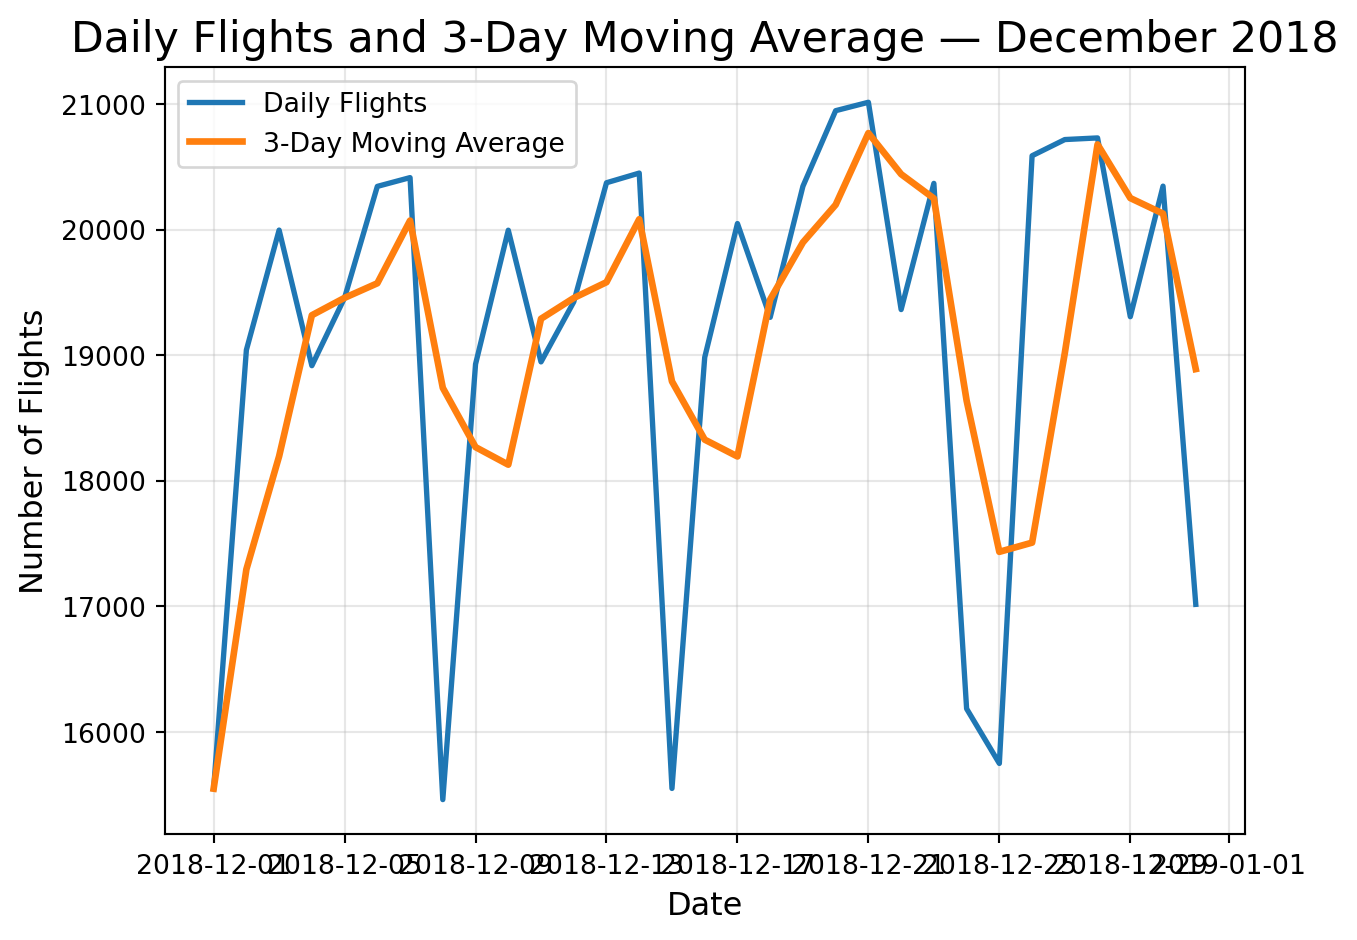
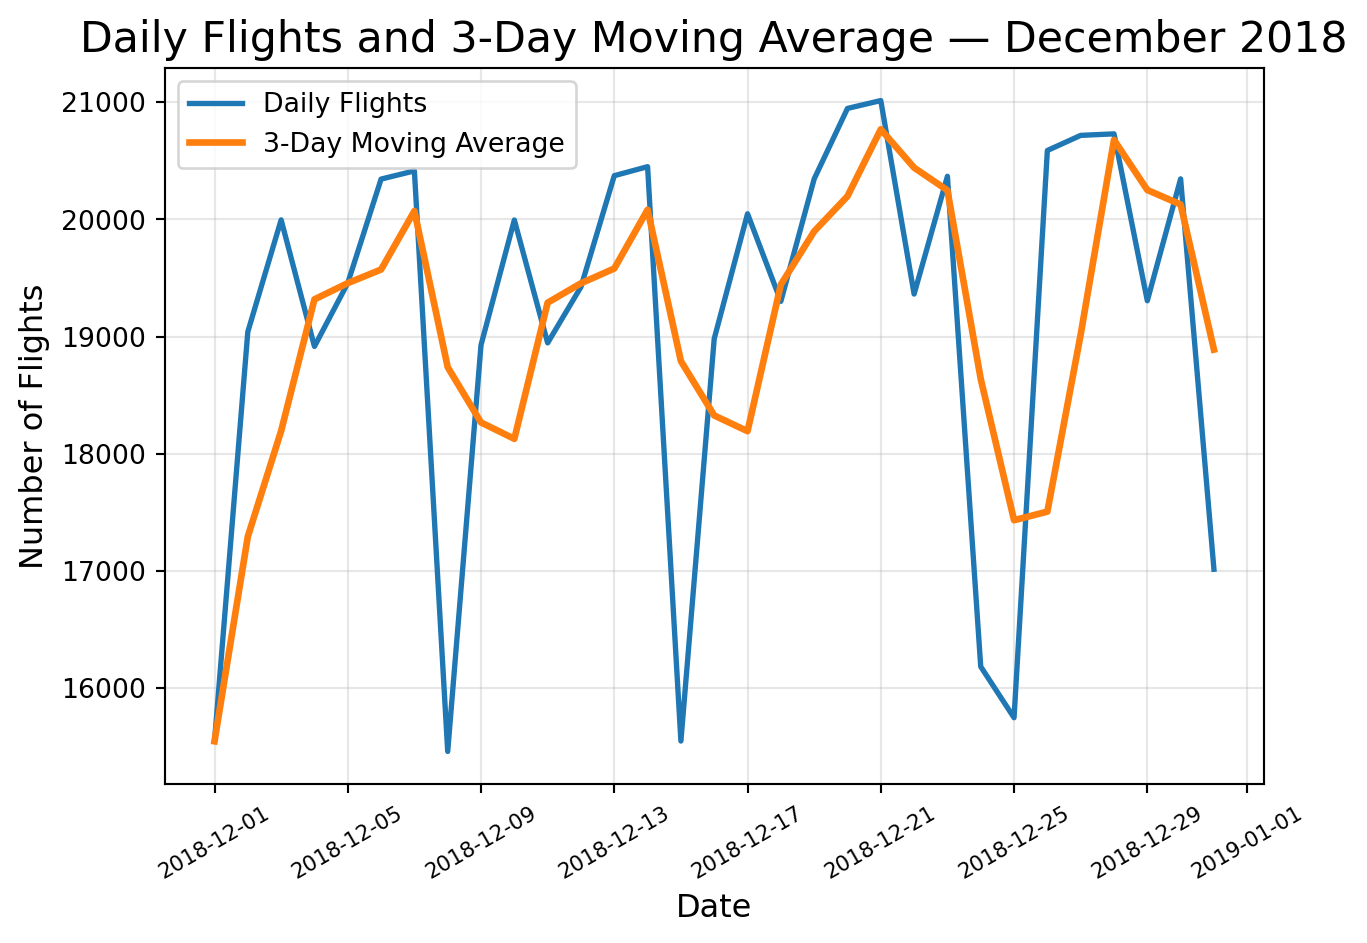
update quarto web page

diff --git a/docs/index.html b/docs/index.html
@@ -231,7 +231,6 @@ pre > code.sourceCode > span > a:first-child::before { text-decoration: underlin
 <li>Cancellation indicators and reasons</li>
 </ul>
 <p>Using SQL—including joins and window functions—alongside Python visualizations, this report examines patterns in flight volume, delays, and cancellations. The goal of this Quarto page is to <strong>tell a clear, cohesive story</strong> about traveler behavior and operational performance during one of the busiest travel periods of the year.</p>
-<hr>
 </section>
 <section id="when-are-the-skies-busiest" class="level1">
 <h1>1. When Are the Skies Busiest?</h1>
@@ -252,7 +251,7 @@ A simple grouping query joined to the weekday lookup table reveals that:</p>
 </blockquote>
 <section id="visualization" class="level3">
 <h3 class="anchored" data-anchor-id="visualization">Visualization</h3>
-<div id="c5db799d" class="cell" data-execution_count="1">
+<div id="09fde6eb" class="cell" data-execution_count="1">
 <details class="code-fold">
 <summary>Code</summary>
 <div class="sourceCode cell-code" id="cb1"><pre class="sourceCode python code-with-copy"><code class="sourceCode python"><span id="cb1-1"><a href="#cb1-1" aria-hidden="true" tabindex="-1"></a><span class="im">import</span> pandas <span class="im">as</span> pd</span>
@@ -277,13 +276,12 @@ A simple grouping query joined to the weekday lookup table reveals that:</p>
 </div>
 </div>
 </div>
-<hr>
 </section>
 </section>
 <section id="daily-traffic-trend-with-a-3-day-moving-average" class="level2">
 <h2 class="anchored" data-anchor-id="daily-traffic-trend-with-a-3-day-moving-average">1.2 Daily Traffic Trend with a 3-Day Moving Average</h2>
 <p>To understand short-term fluctuations, I computed a <strong>3-day moving average</strong> on the number of flights per day using a SQL window function.</p>
-<div id="2584c30a" class="cell" data-execution_count="2">
+<div id="7927c589" class="cell" data-execution_count="2">
 <details class="code-fold">
 <summary>Code</summary>
 <div class="sourceCode cell-code" id="cb2"><pre class="sourceCode python code-with-copy"><code class="sourceCode python"><span id="cb2-1"><a href="#cb2-1" aria-hidden="true" tabindex="-1"></a><span class="im">import</span> pandas <span class="im">as</span> pd</span>
@@ -291,7 +289,7 @@ A simple grouping query joined to the weekday lookup table reveals that:</p>
 <span id="cb2-3"><a href="#cb2-3" aria-hidden="true" tabindex="-1"></a>df2 <span class="op">=</span> pd.read_csv(<span class="st">"data/miniproject_task7_Yuxi_Shen_ys1079.csv"</span>)</span>
 <span id="cb2-4"><a href="#cb2-4" aria-hidden="true" tabindex="-1"></a>df2</span></code><button title="Copy to Clipboard" class="code-copy-button"><i class="bi"></i></button></pre></div>
 </details>
-<div class="cell-output cell-output-display" data-execution_count="2">
+<div class="cell-output cell-output-display" data-execution_count="12">
 <div>
 
 
@@ -516,7 +514,7 @@ A simple grouping query joined to the weekday lookup table reveals that:</p>
 <li>weekly fluctuation of number of flights</li>
 </ul></li>
 </ul>
-<div id="f1aa536b" class="cell" data-execution_count="3">
+<div id="838455d7" class="cell" data-execution_count="3">
 <details class="code-fold">
 <summary>Code</summary>
 <div class="sourceCode cell-code" id="cb3"><pre class="sourceCode python code-with-copy"><code class="sourceCode python"><span id="cb3-1"><a href="#cb3-1" aria-hidden="true" tabindex="-1"></a><span class="im">import</span> pandas <span class="im">as</span> pd</span>
@@ -537,20 +535,20 @@ A simple grouping query joined to the weekday lookup table reveals that:</p>
 <span id="cb3-16"><a href="#cb3-16" aria-hidden="true" tabindex="-1"></a>plt.title(<span class="st">"Daily Flights and 3-Day Moving Average — December 2018"</span>, fontsize<span class="op">=</span><span class="dv">16</span>)</span>
 <span id="cb3-17"><a href="#cb3-17" aria-hidden="true" tabindex="-1"></a>plt.xlabel(<span class="st">"Date"</span>, fontsize<span class="op">=</span><span class="dv">12</span>)</span>
 <span id="cb3-18"><a href="#cb3-18" aria-hidden="true" tabindex="-1"></a>plt.ylabel(<span class="st">"Number of Flights"</span>, fontsize<span class="op">=</span><span class="dv">12</span>)</span>
-<span id="cb3-19"><a href="#cb3-19" aria-hidden="true" tabindex="-1"></a>plt.grid(alpha<span class="op">=</span><span class="fl">0.3</span>)</span>
-<span id="cb3-20"><a href="#cb3-20" aria-hidden="true" tabindex="-1"></a>plt.legend()</span>
-<span id="cb3-21"><a href="#cb3-21" aria-hidden="true" tabindex="-1"></a>plt.tight_layout()</span>
-<span id="cb3-22"><a href="#cb3-22" aria-hidden="true" tabindex="-1"></a>plt.show()</span></code><button title="Copy to Clipboard" class="code-copy-button"><i class="bi"></i></button></pre></div>
+<span id="cb3-19"><a href="#cb3-19" aria-hidden="true" tabindex="-1"></a>plt.xticks(rotation<span class="op">=</span><span class="dv">30</span>, size<span class="op">=</span><span class="dv">8</span>)</span>
+<span id="cb3-20"><a href="#cb3-20" aria-hidden="true" tabindex="-1"></a>plt.grid(alpha<span class="op">=</span><span class="fl">0.3</span>)</span>
+<span id="cb3-21"><a href="#cb3-21" aria-hidden="true" tabindex="-1"></a>plt.legend()</span>
+<span id="cb3-22"><a href="#cb3-22" aria-hidden="true" tabindex="-1"></a>plt.tight_layout()</span>
+<span id="cb3-23"><a href="#cb3-23" aria-hidden="true" tabindex="-1"></a>plt.show()</span></code><button title="Copy to Clipboard" class="code-copy-button"><i class="bi"></i></button></pre></div>
 </details>
 <div class="cell-output cell-output-display">
 <div>
 <figure class="figure">
-<p><img src="index_files/figure-html/cell-4-output-1.png" width="679" height="470" class="figure-img"></p>
+<p><img src="index_files/figure-html/cell-4-output-1.png" width="684" height="472" class="figure-img"></p>
 </figure>
 </div>
 </div>
 </div>
-<hr>
 </section>
 </section>
 </section>
@@ -561,15 +559,12 @@ A simple grouping query joined to the weekday lookup table reveals that:</p>
 <p>I computed the <strong>maximal departure delay</strong> (in minutes) for each airline.</p>
 <ul>
 <li>The worst delay observed was for <strong>SkyWest Airlines Inc.</strong>, with a flight departing <strong>2098</strong> late.</li>
-<li>The smallest maximum delay belonged to <strong>Alaska Airlines Inc.</strong>.</li>
+<li>The smallest maximum delay belonged to <strong>Alaska Airlines Inc.</strong></li>
 </ul>
 <p>Extreme delays may be driven by severe weather or operational disruptions, but they highlight worst-case passenger experiences.</p>
 <section id="visualization-2" class="level3">
 <h3 class="anchored" data-anchor-id="visualization-2">Visualization</h3>
-<ul>
-<li>Bar chart of <strong>maximum delays per airline</strong>, ordered ascending.</li>
-</ul>
-<div id="74932f8d" class="cell" data-execution_count="4">
+<div id="0cbc13f2" class="cell" data-execution_count="4">
 <details class="code-fold">
 <summary>Code</summary>
 <div class="sourceCode cell-code" id="cb4"><pre class="sourceCode python code-with-copy"><code class="sourceCode python"><span id="cb4-1"><a href="#cb4-1" aria-hidden="true" tabindex="-1"></a><span class="im">import</span> pandas <span class="im">as</span> pd</span>
@@ -596,7 +591,7 @@ A simple grouping query joined to the weekday lookup table reveals that:</p>
 </div>
 </div>
 </div>
-<hr>
+<p><em>Notes. Bar chart of <strong>maximum delays per airline</strong>, ordered ascending.</em></p>
 </section>
 </section>
 <section id="early-departures-negative-delays" class="level2">
@@ -604,9 +599,9 @@ A simple grouping query joined to the weekday lookup table reveals that:</p>
 <p>Some airlines operate flights that leave earlier than scheduled.<br>
 By examining negative <code>DepDelay</code> values:</p>
 <ul>
-<li>The biggest early departure was <strong>72 minutes early</strong> by <strong>United AirLines Inc.</strong>.</li>
+<li>The biggest early departure was <strong>72 minutes early</strong> by <strong>United AirLines Inc.</strong></li>
 </ul>
-<div id="32bca308" class="cell" data-execution_count="5">
+<div id="a74d556f" class="cell" data-execution_count="5">
 <details class="code-fold">
 <summary>Code</summary>
 <div class="sourceCode cell-code" id="cb5"><pre class="sourceCode python code-with-copy"><code class="sourceCode python"><span id="cb5-1"><a href="#cb5-1" aria-hidden="true" tabindex="-1"></a><span class="im">import</span> pandas <span class="im">as</span> pd</span>
@@ -633,27 +628,25 @@ By examining negative <code>DepDelay</code> values:</p>
 </div>
 </div>
 </div>
-<hr>
 </section>
 <section id="which-airports-experience-the-worst-delays" class="level2">
 <h2 class="anchored" data-anchor-id="which-airports-experience-the-worst-delays">2.3 Which Airports Experience the Worst Delays?</h2>
 <p>Using <code>DepDelayMinutes</code>—which assigns early departures a delay of zero—I calculated the <strong>average departure delay for each origin airport</strong>. This measure highlights airports where operational congestion, scheduling inefficiency, or weather-related factors contribute to slower throughput.</p>
 <ul>
-<li>The airport with the <strong>highest average delay</strong> was <strong>Liberal, KS: Liberal Mid-America Regional</strong>, with an average delay of <strong>63.82 minutes</strong>.</li>
+<li>The airport with the <strong>highest average delay</strong> was <strong>in Liberal, KS: Liberal Mid-America Regional Airport</strong>, with an average delay of <strong>63.82 minutes</strong>.</li>
 </ul>
 <p>This result suggests that even smaller regional airports can become significant delay points, depending on local conditions and airline routing patterns.</p>
-<hr>
 </section>
 <section id="for-each-airline-which-airport-is-its-biggest-delay-problem" class="level2">
 <h2 class="anchored" data-anchor-id="for-each-airline-which-airport-is-its-biggest-delay-problem">2.4 For Each Airline, Which Airport Is Its Biggest Delay Problem?</h2>
 <p>To better understand how operational performance varies by airline and location, I used a window function to identify, for <strong>each airline</strong>, the <strong>airport where it experiences its highest average departure delay</strong>.</p>
 <p>A few illustrative examples include:</p>
 <ul>
-<li><strong>Delta Air Lines Inc.&nbsp;(DL)</strong> faces its longest delays at <strong>Kalispell, MT: Glacier Park International</strong>, averaging <strong>60.12 minutes</strong>.<br>
+<li><strong>Delta Air Lines Inc.&nbsp;(DL)</strong> faces its longest delays at <strong>Kalispell, MT: Glacier Park International Airport</strong>, averaging <strong>60.12 minutes</strong>.<br>
 </li>
-<li><strong>ExpressJet Airlines LLC (EV)</strong> experiences its worst delays at <strong>Detroit, MI: Detroit Metro Wayne County</strong>, with an exceptionally high average delay of <strong>167 minutes</strong>.<br>
+<li><strong>ExpressJet Airlines LLC (EV)</strong> experiences its worst delays at <strong>Detroit, MI: Detroit Metro Wayne County Airport</strong>, with an exceptionally high average delay of <strong>167 minutes</strong>.<br>
 </li>
-<li><strong>JetBlue Airways (B6)</strong> and <strong>Frontier Airlines (F9)</strong> both encounter their highest delays at <strong>Dallas/Fort Worth, TX: Dallas/Fort Worth International</strong>, averaging approximately <strong>50 minutes</strong>.</li>
+<li><strong>JetBlue Airways (B6)</strong> and <strong>Frontier Airlines (F9)</strong> both encounter their highest delays at <strong>TX: Dallas/Fort Worth International Airport</strong>, averaging approximately <strong>50 minutes</strong>.</li>
 </ul>
 <p>These patterns reveal that <strong>delay hotspots are airline-specific</strong>. An airport that is highly problematic for one carrier may operate efficiently for another, underscoring the complex interactions between airline scheduling, airport capacity, and regional conditions.</p>
 <blockquote class="blockquote">
@@ -661,17 +654,7 @@ By examining negative <code>DepDelay</code> values:</p>
 </blockquote>
 <section id="visualization-3" class="level3">
 <h3 class="anchored" data-anchor-id="visualization-3">Visualization</h3>
-<ul>
-<li>Grouped bar chart or table showing:
-<ul>
-<li>Airline<br>
-</li>
-<li>Worst-performing airport<br>
-</li>
-<li>Average departure delay</li>
-</ul></li>
-</ul>
-<div id="0e06f36f" class="cell" data-execution_count="6">
+<div id="3250f54e" class="cell" data-execution_count="6">
 <details class="code-fold">
 <summary>Code</summary>
 <div class="sourceCode cell-code" id="cb6"><pre class="sourceCode python code-with-copy"><code class="sourceCode python"><span id="cb6-1"><a href="#cb6-1" aria-hidden="true" tabindex="-1"></a><span class="im">import</span> pandas <span class="im">as</span> pd</span>
@@ -706,7 +689,7 @@ By examining negative <code>DepDelay</code> values:</p>
 </div>
 </div>
 </div>
-<hr>
+<p><em>Notes. Grouped bar chart showing Airline on y axis, color-coded by Worst-performing airport, and the lengths of bar represent Average departure delay</em></p>
 </section>
 </section>
 </section>
@@ -716,7 +699,6 @@ By examining negative <code>DepDelay</code> values:</p>
 <h2 class="anchored" data-anchor-id="do-cancellations-occur-in-december-2018">3.1 Do Cancellations Occur in December 2018?</h2>
 <p>Yes.<br>
 Across all flights in December 2018, the dataset contains <strong>6,752 cancelled flights</strong>, indicating that cancellations were a non-negligible operational issue during this month.</p>
-<hr>
 </section>
 <section id="most-frequent-cancellation-reasons-by-airport" class="level2">
 <h2 class="anchored" data-anchor-id="most-frequent-cancellation-reasons-by-airport">3.2 Most Frequent Cancellation Reasons by Airport</h2>
@@ -725,7 +707,7 @@ Across all flights in December 2018, the dataset contains <strong>6,752 cancelle
 <ul>
 <li><strong>Weather (A)</strong> — conditions such as snow, thunderstorms, or low visibility</li>
 </ul>
-<div id="b921d559" class="cell" data-execution_count="7">
+<div id="1f897ce7" class="cell" data-execution_count="7">
 <details class="code-fold">
 <summary>Code</summary>
 <div class="sourceCode cell-code" id="cb7"><pre class="sourceCode python code-with-copy"><code class="sourceCode python"><span id="cb7-1"><a href="#cb7-1" aria-hidden="true" tabindex="-1"></a><span class="im">import</span> pandas <span class="im">as</span> pd</span>
@@ -733,7 +715,7 @@ Across all flights in December 2018, the dataset contains <strong>6,752 cancelle
 <span id="cb7-3"><a href="#cb7-3" aria-hidden="true" tabindex="-1"></a>df2 <span class="op">=</span> pd.read_csv(<span class="st">"data/miniproject_task6b_Yuxi_Shen_ys1079.csv"</span>)</span>
 <span id="cb7-4"><a href="#cb7-4" aria-hidden="true" tabindex="-1"></a>df2[df2[<span class="st">"Reason"</span>] <span class="op">==</span> <span class="st">"Weather"</span>].head(<span class="dv">10</span>)</span></code><button title="Copy to Clipboard" class="code-copy-button"><i class="bi"></i></button></pre></div>
 </details>
-<div class="cell-output cell-output-display" data-execution_count="7">
+<div class="cell-output cell-output-display" data-execution_count="17">
 <div>
 
 
@@ -816,7 +798,7 @@ Across all flights in December 2018, the dataset contains <strong>6,752 cancelle
 <ul>
 <li><strong>Carrier (B)</strong> — airline-related operational issues, staffing shortages, or maintenance</li>
 </ul>
-<div id="7046d593" class="cell" data-execution_count="8">
+<div id="ce0aa0ad" class="cell" data-execution_count="8">
 <details class="code-fold">
 <summary>Code</summary>
 <div class="sourceCode cell-code" id="cb8"><pre class="sourceCode python code-with-copy"><code class="sourceCode python"><span id="cb8-1"><a href="#cb8-1" aria-hidden="true" tabindex="-1"></a><span class="im">import</span> pandas <span class="im">as</span> pd</span>
@@ -824,7 +806,7 @@ Across all flights in December 2018, the dataset contains <strong>6,752 cancelle
 <span id="cb8-3"><a href="#cb8-3" aria-hidden="true" tabindex="-1"></a>df2 <span class="op">=</span> pd.read_csv(<span class="st">"data/miniproject_task6b_Yuxi_Shen_ys1079.csv"</span>)</span>
 <span id="cb8-4"><a href="#cb8-4" aria-hidden="true" tabindex="-1"></a>df2[df2[<span class="st">"Reason"</span>] <span class="op">==</span> <span class="st">"Carrier"</span>].head(<span class="dv">10</span>)</span></code><button title="Copy to Clipboard" class="code-copy-button"><i class="bi"></i></button></pre></div>
 </details>
-<div class="cell-output cell-output-display" data-execution_count="8">
+<div class="cell-output cell-output-display" data-execution_count="18">
 <div>
 
 
@@ -907,7 +889,7 @@ Across all flights in December 2018, the dataset contains <strong>6,752 cancelle
 <ul>
 <li><strong>National Air System (C)</strong> — air-traffic control, routing restrictions, or system capacity</li>
 </ul>
-<div id="50ae1910" class="cell" data-execution_count="9">
+<div id="945c7d31" class="cell" data-execution_count="9">
 <details class="code-fold">
 <summary>Code</summary>
 <div class="sourceCode cell-code" id="cb9"><pre class="sourceCode python code-with-copy"><code class="sourceCode python"><span id="cb9-1"><a href="#cb9-1" aria-hidden="true" tabindex="-1"></a><span class="im">import</span> pandas <span class="im">as</span> pd</span>
@@ -915,7 +897,7 @@ Across all flights in December 2018, the dataset contains <strong>6,752 cancelle
 <span id="cb9-3"><a href="#cb9-3" aria-hidden="true" tabindex="-1"></a>df2 <span class="op">=</span> pd.read_csv(<span class="st">"data/miniproject_task6b_Yuxi_Shen_ys1079.csv"</span>)</span>
 <span id="cb9-4"><a href="#cb9-4" aria-hidden="true" tabindex="-1"></a>df2[df2[<span class="st">"Reason"</span>] <span class="op">==</span> <span class="st">"National Air System"</span>].head(<span class="dv">10</span>)</span></code><button title="Copy to Clipboard" class="code-copy-button"><i class="bi"></i></button></pre></div>
 </details>
-<div class="cell-output cell-output-display" data-execution_count="9">
+<div class="cell-output cell-output-display" data-execution_count="19">
 <div>
 
 
@@ -1022,7 +1004,7 @@ Across all flights in December 2018, the dataset contains <strong>6,752 cancelle
 </li>
 <li>Number of cancellations</li>
 </ul>
-<div id="b7bbe796" class="cell" data-execution_count="10">
+<div id="705d3938" class="cell" data-execution_count="10">
 <details class="code-fold">
 <summary>Code</summary>
 <div class="sourceCode cell-code" id="cb10"><pre class="sourceCode python code-with-copy"><code class="sourceCode python"><span id="cb10-1"><a href="#cb10-1" aria-hidden="true" tabindex="-1"></a><span class="im">import</span> pandas <span class="im">as</span> pd</span>
@@ -1060,7 +1042,6 @@ Across all flights in December 2018, the dataset contains <strong>6,752 cancelle
 </div>
 </div>
 </div>
-<hr>
 </section>
 </section>
 </section>
@@ -1084,7 +1065,6 @@ Across all flights in December 2018, the dataset contains <strong>6,752 cancelle
 </li>
 <li>Analysts and policymakers better understand seasonal flight patterns</li>
 </ul>
-<hr>
 </section>
 <section id="methods-reproducibility" class="level1">
 <h1>5. Methods &amp; Reproducibility</h1>
